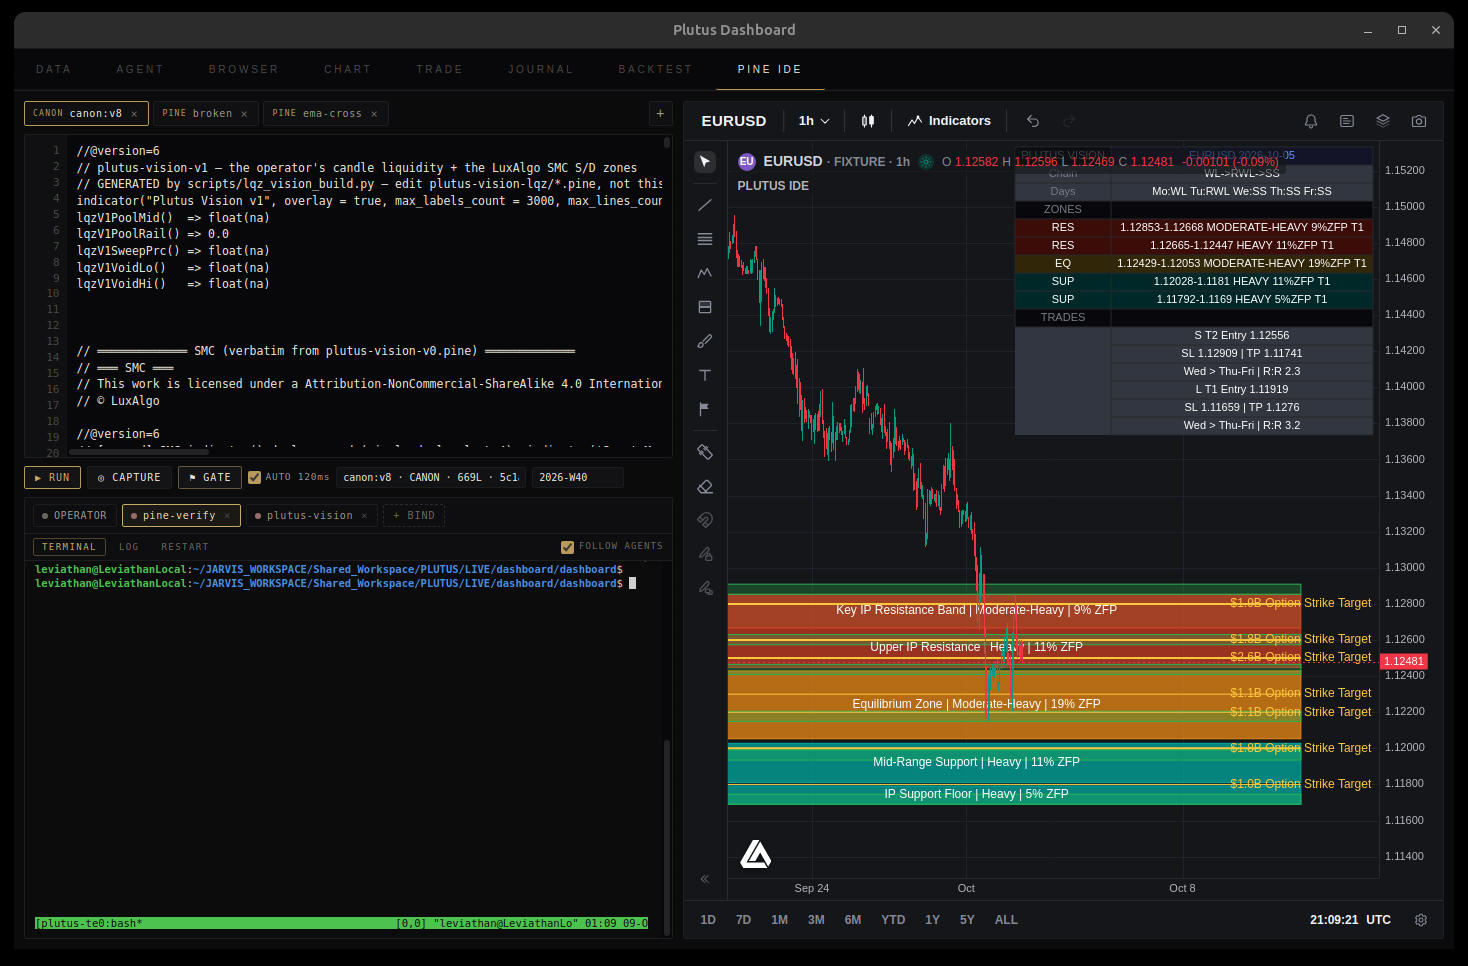
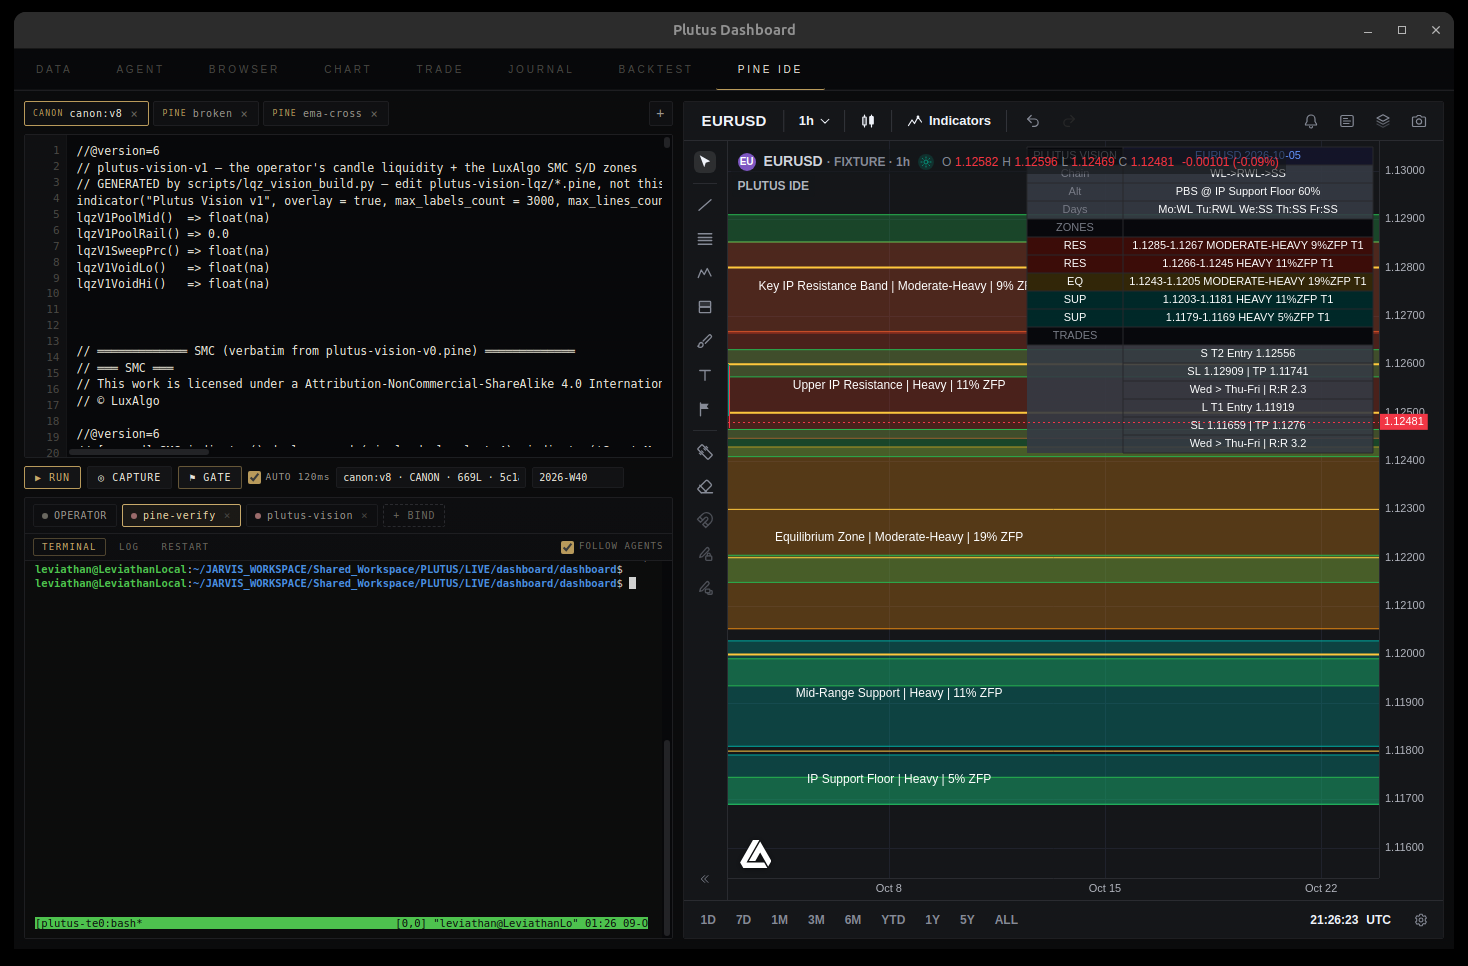
fix(e1): spec 30% fill color.new(_,70); Alt-chain table row; 4-decimal prices (10.9); box span -2wk..+3wk (the v8's) (v2 8cf1788dccdc67079151d2220dbb3d2350f2d976ba93bc928026401878ba48c4, battery 11 suites 0 fail)

Changed region(s): [[0.4905, 0.1553, 0.9809, 0.8385], [0.9503, 0.8696, 0.9809, 0.9006]]

diff --git a/scripts/lqz_vision_v2_build.py b/scripts/lqz_vision_v2_build.py
@@ -308,7 +308,7 @@ def build_payload() -> tuple[str, str]:
     # `var array<string> e1_injected_tbl_row = array.new<string>()` PER ROW — five identical
     # declarations in the emitted Pine. `add()` initializes on call, so the row list must be
     # built first and emitted in ONE call.
-    _tbl_rows = [(f'{_f(z.get("top"))}-{_f(z.get("bottom"))} '
+    _tbl_rows = [(f'{float(z.get("top")):.4f}-{float(z.get("bottom")):.4f} '
                   f'{z.get("degree_v8", "")} {_calc_zfp(z.get("top"), z.get("bottom"))}%ZFP {z.get("zTir", "T2")}')
                  for z in zones]
     add("e1_injected_tbl_row", "string", [f'"{_q(r)}"' for r in _tbl_rows])
@@ -320,6 +320,14 @@ def build_payload() -> tuple[str, str]:
     if _links:
         _ch = _links[0].split("->")[0] + "->" + "->".join(l.split("->")[-1] for l in _links)
     add("e1_injected_chain", "string", [f'"{_q(_ch)}"'])
+    # THE ALT CHAIN (§10.7 row 2, §6.6 Step 4 / Rule 5). The alternative the E2 engine emits
+    # (the ghost): "SHAPE @ DECISION ZONE CONF%". The earlier table had NO Alt row (rows were
+    # Chain/Days/ZONES...) — a §10.7 violation the reviewer named.
+    _alt = ""
+    for _g in (e2doc.get("ghost") or []):
+        _alt = f'{_g.get("to", "")} @ {_g.get("zone", "")} {int(_f(_g.get("conf", 0)))}%'
+        break
+    add("e1_injected_alt", "string", [f'"{_q(_alt)}"'])
     _days_s = " ".join(f'{str(d.get("day", ""))[:2]}:{d.get("shape", "")}'
                        for d in (e2doc.get("days") or []))
     add("e1_injected_days", "string", [f'"{_q(_days_s)}"'])
